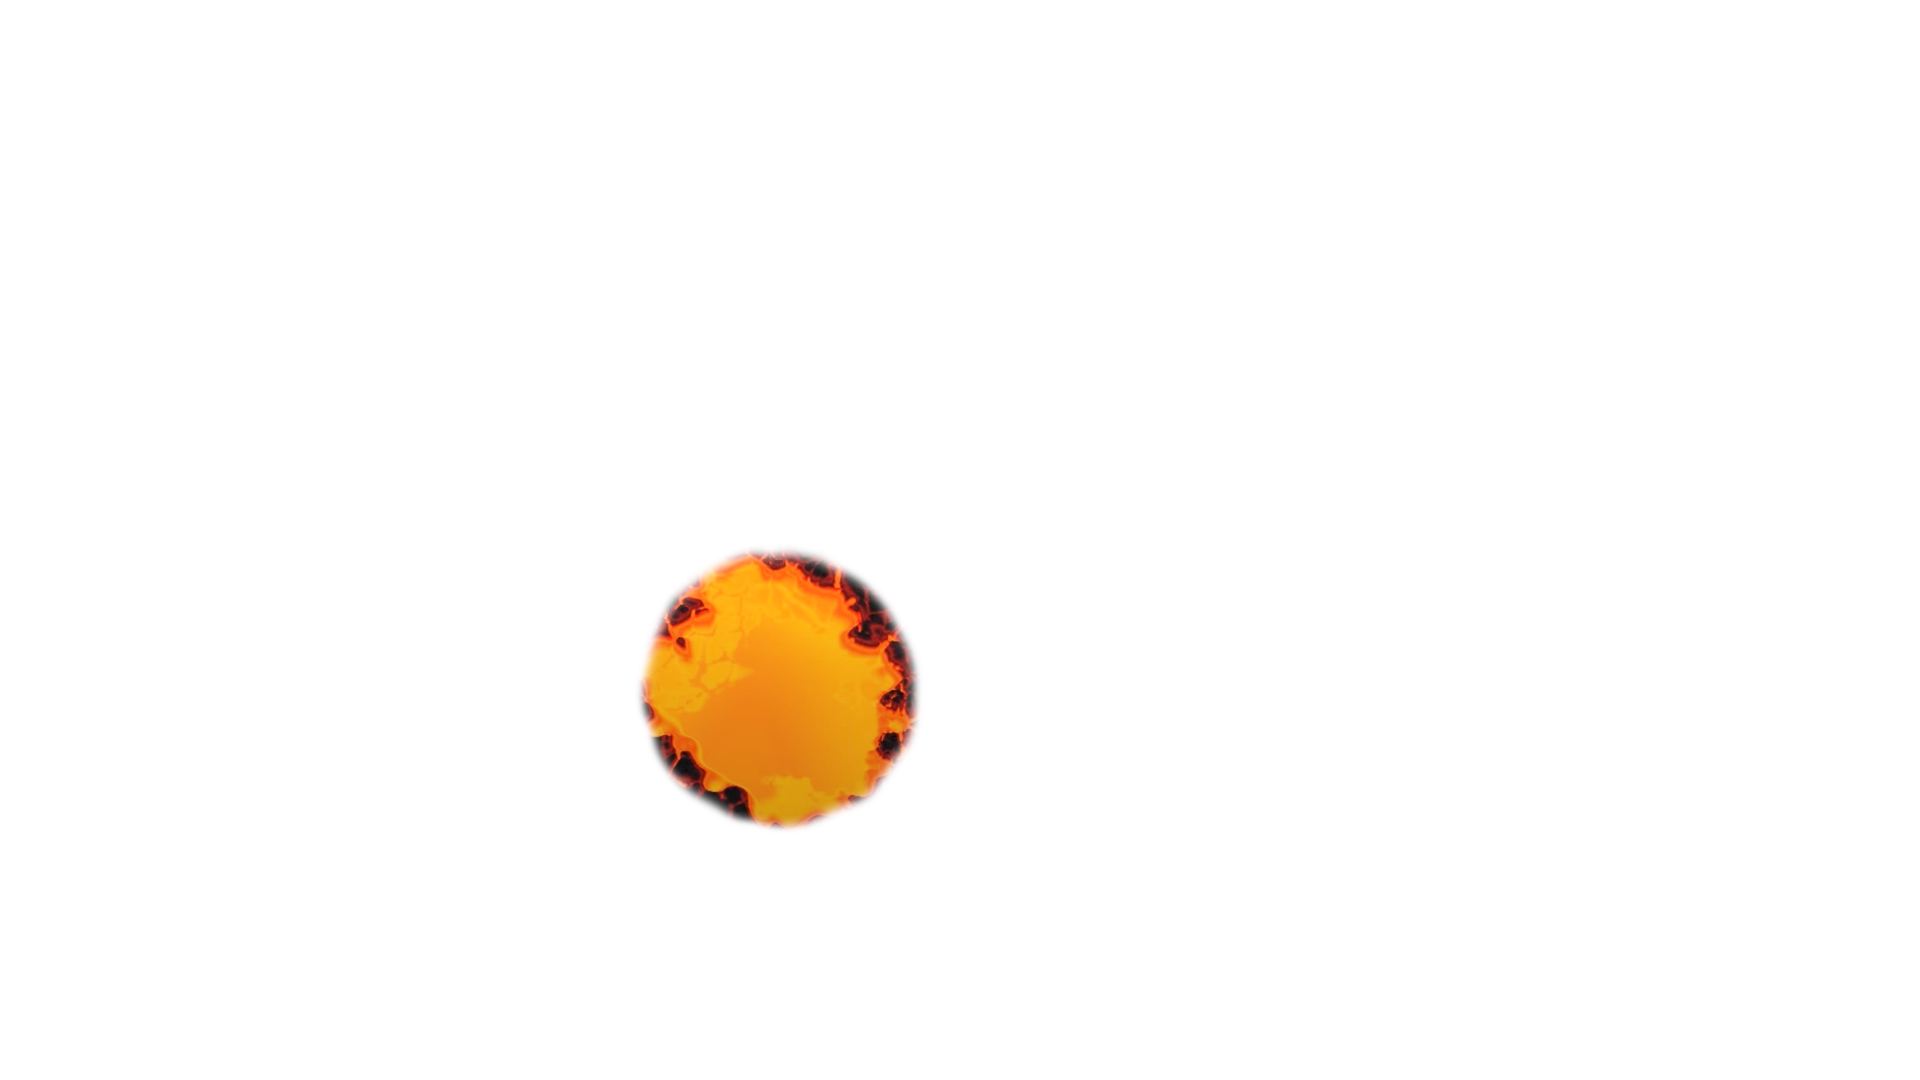
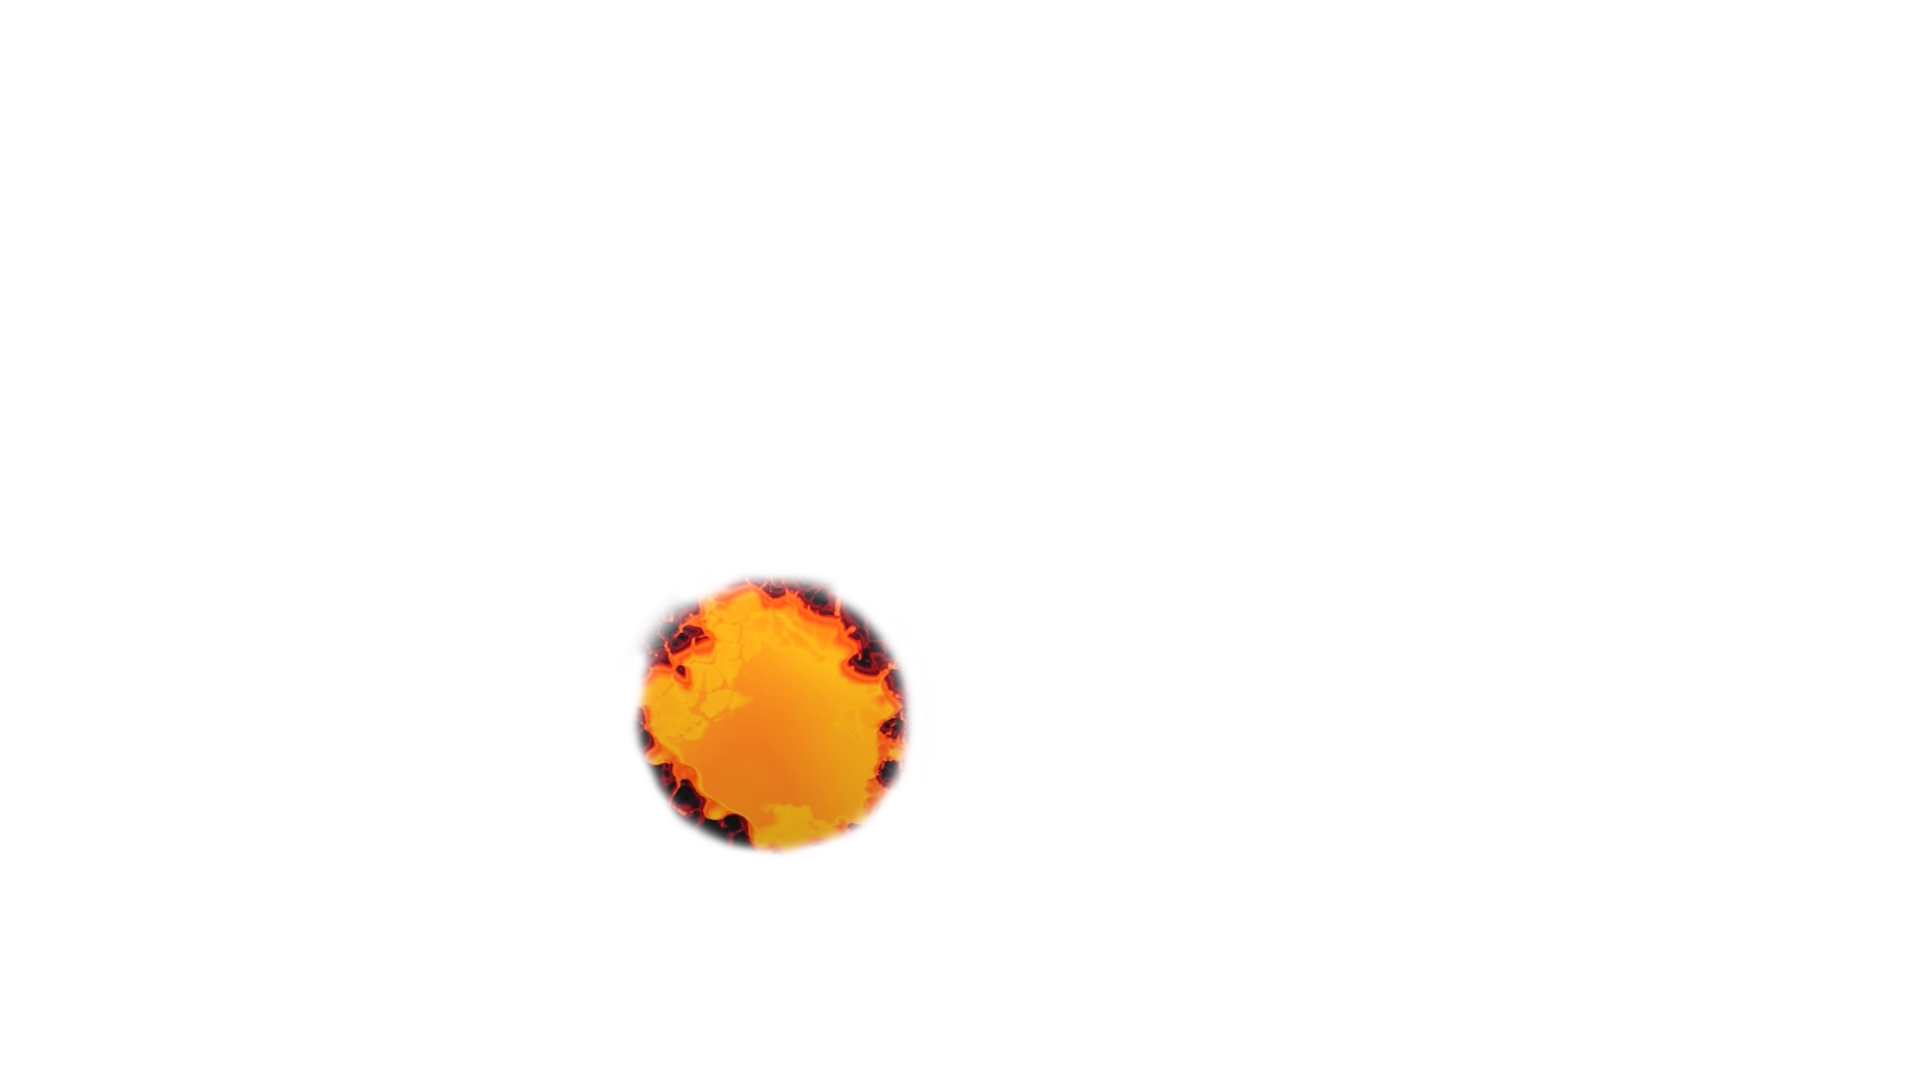
岩漿放圖、修正衝刺判定

Changed region(s): [[0.3125, 0.4889, 0.5, 0.7944]]

diff --git a/Assets/Script/role/Player/PlayerManager.cs b/Assets/Script/role/Player/PlayerManager.cs
@@ -1216,7 +1216,7 @@ namespace com.DungeonPad
         }
         #endregion
 
-        static WaitForSeconds waitForPress = new WaitForSeconds(0.05f);
+        static WaitForSeconds waitForPress = new WaitForSeconds(0.03f);
         static WaitForSeconds waitForMinut = new WaitForSeconds(0.01f);
         IEnumerator dash(string p1p2joy, int TwoPlayerModeORp1p2)
         {
@@ -1253,11 +1253,11 @@ namespace com.DungeonPad
                     break;
             }
             DashA = Vector3.Normalize(DashA) * DashSpeed;
-            for(int i = 0; i < 3; i++)
+            for(int i = 0; i < 5; i++)
             {
                 if (DashA.magnitude <= 10)
                 {
-                    yield return waitForPress;
+                    yield return waitForMinut;
                     switch (p1p2joy)
                     {
                         case "WASD":
